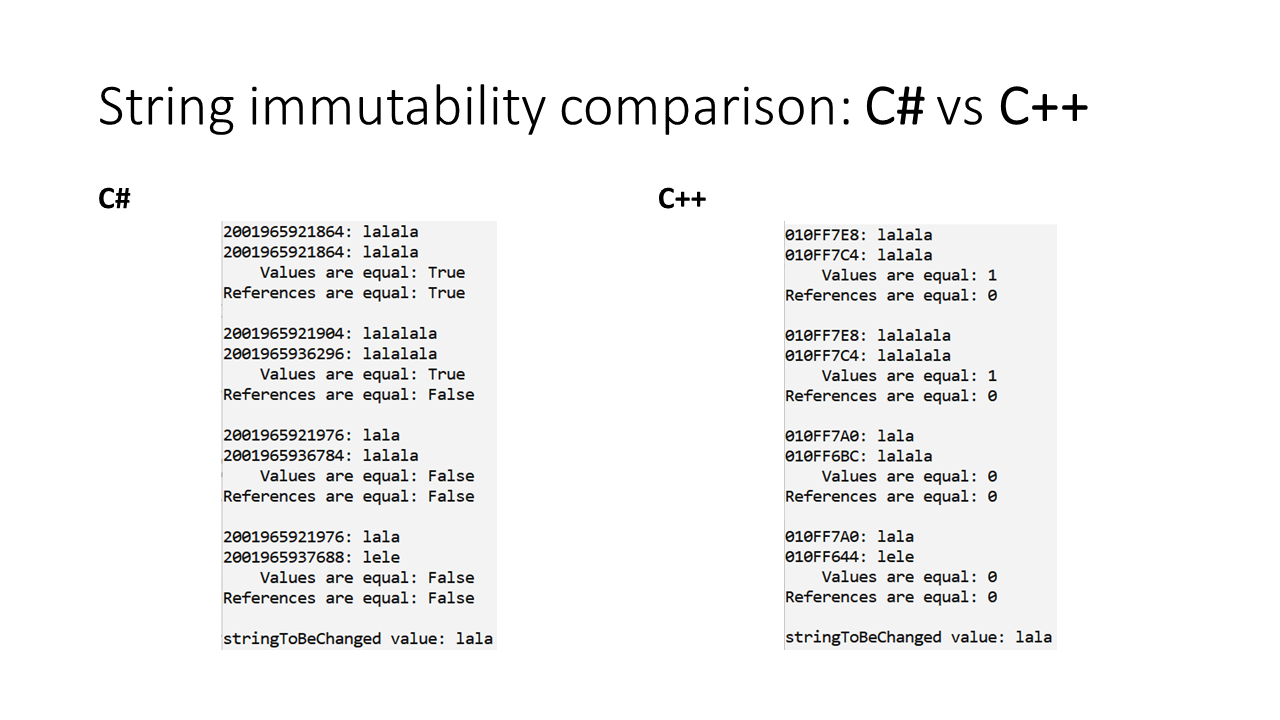
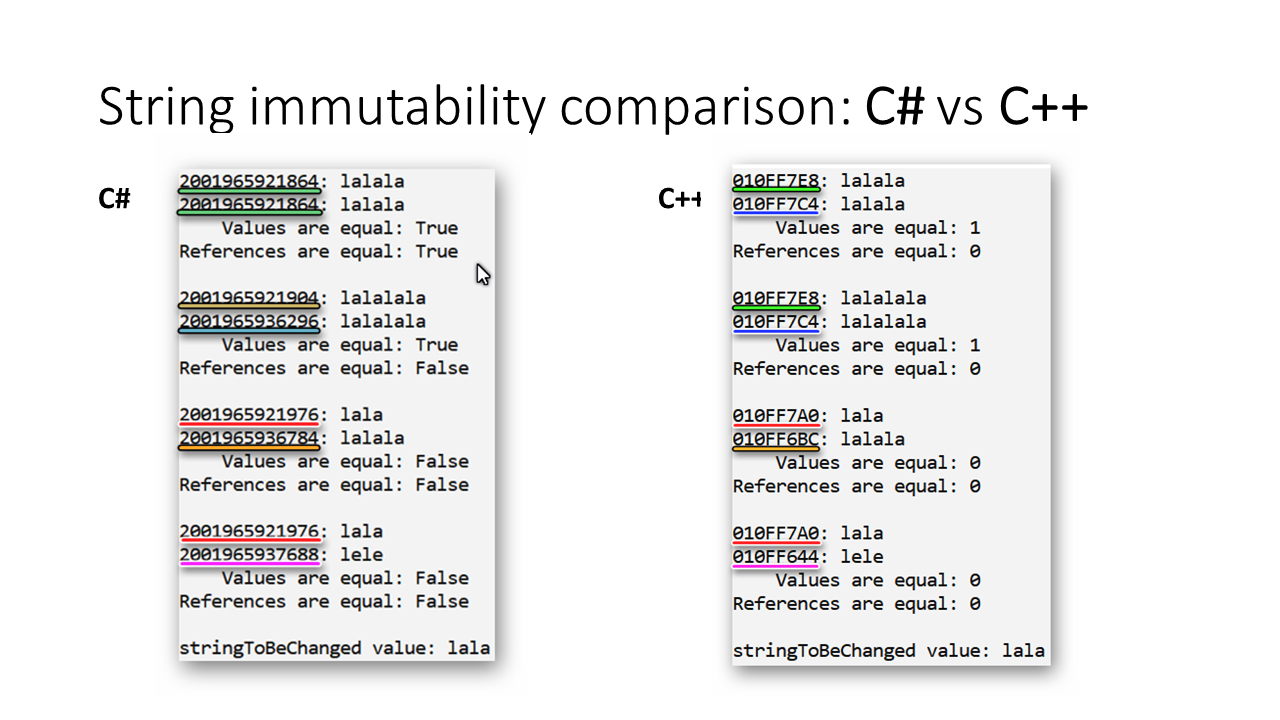
Changed result screenshot and added comments about code source

Changed region(s): [[0.125, 0.2139, 0.4062, 0.9472], [0.5625, 0.2139, 0.8438, 0.9472]]

diff --git a/CppSamples/CppSamples.cpp b/CppSamples/CppSamples.cpp
@@ -55,7 +55,7 @@ void printComparison(const std::string &string1, const std::string &string2) {
         << "References are equal: " << (&string1 == &string2) << "\n\n";
 }
 
-// function taken from: https://stackoverflow.com/questions/2896600/how-to-replace-all-occurrences-of-a-character-in-string
+// function taken from: https://stackoverflow.com/a/24315631/13721565
 std::string ReplaceAll(std::string str, const std::string& from, const std::string& to) {
     size_t start_pos = 0;
     while ((start_pos = str.find(from, start_pos)) != std::string::npos) {

diff --git a/CSharpSamples/RefHelper.cs b/CSharpSamples/RefHelper.cs
@@ -4,6 +4,7 @@ namespace CSharpSamples
 {
     public static class RefHelper
     {
+        // Method inspired by: https://stackoverflow.com/a/10861731/13721565
         public static string Ref(this object o)
         {
             unsafe
